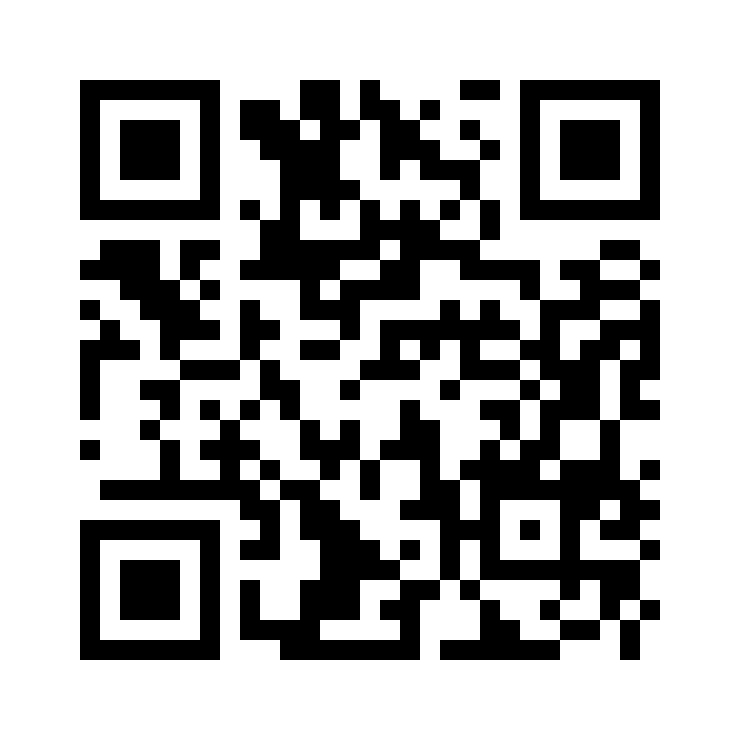
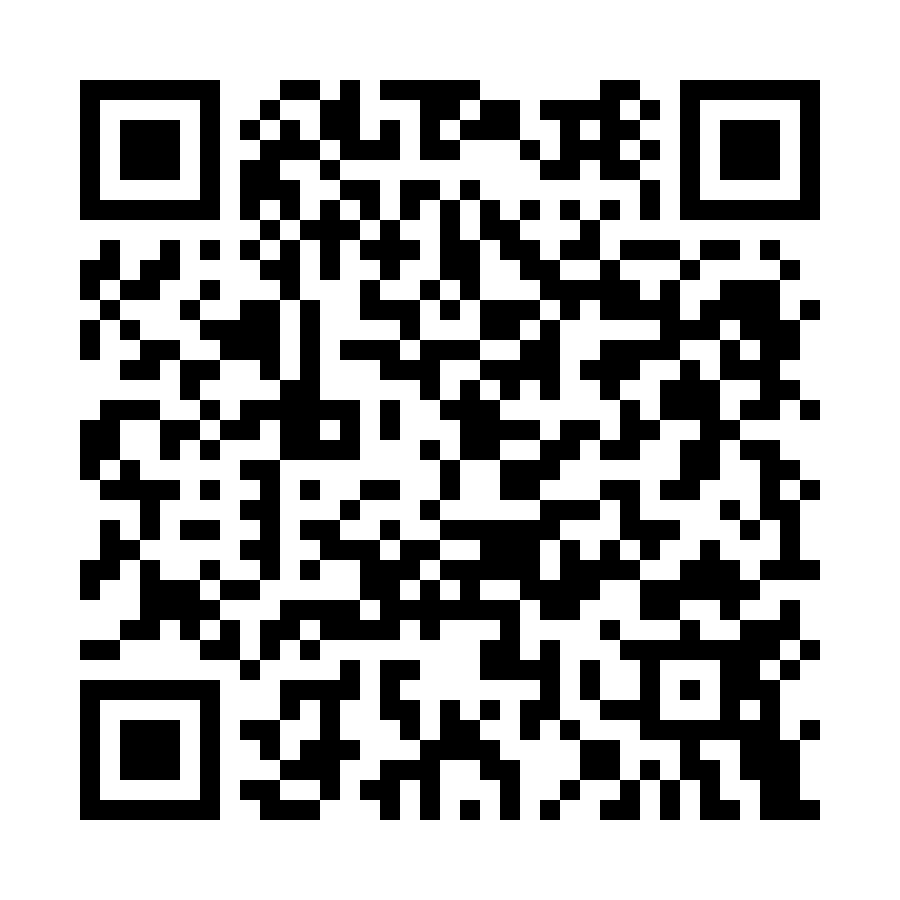
fix zavod qr code

diff --git a/zavod.md b/zavod.md
@@ -5,7 +5,7 @@ Aplikácia je dostupná **bezplatne** na operačných systémoch **Android**, **
 
 | Android | iOS |
 |-----|--------|
-|<a href="https://play.google.com/store/apps/details?id=com.alphabetpartner.zavod"><img src="https://play.google.com/intl/en_us/badges/static/images/badges/sk_badge_web_generic.png" alt="Android" width="350"/></a>|<a href="https://apps.apple.com/sk/app/"><img src="https://raw.githubusercontent.com/Martinedo/ObApp_promoting/master/resources/download_on_app_store_sk.png" alt="iOS" width="300"/></a>|
+|<a href="https://play.google.com/store/apps/details?id=com.alphabetpartner.zavod"><img src="https://play.google.com/intl/en_us/badges/static/images/badges/sk_badge_web_generic.png" alt="Android" width="350"/></a>|<a href="https://apps.apple.com/sk/app/závod/id6636554072"><img src="https://raw.githubusercontent.com/Martinedo/ObApp_promoting/master/resources/download_on_app_store_sk.png" alt="iOS" width="300"/></a>|
 |<img src="https://raw.githubusercontent.com/Martinedo/ObApp_promoting/master/resources/QR_images/zavod_android.png" alt="qr_android" width="300"/>|<img src="https://raw.githubusercontent.com/Martinedo/ObApp_promoting/master/resources/QR_images/zavod_ios.png" alt="qr_iOS" width="300"/>|
 | Minimum - Android 5.0 Lollipop| Min - iOS 12.4 alebo novší |
 
